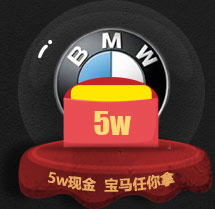
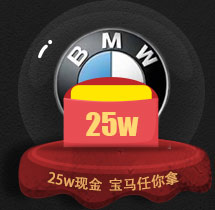
Site updated: 2017-10-06 21:01:34

diff --git a/invite/css/main_mobile.less b/invite/css/main_mobile.less
@@ -395,7 +395,8 @@ background-size: contain;
               text-align: center;
 
               background: url("../img/pick_right_now.jpg") no-repeat;
-              .lessRem(width,309);
+              .lessRem(width,330);
+
               .lessRem(height,126);
               background-size: 100% 100%;
               margin:0 auto;
@@ -408,7 +409,8 @@ background-size: contain;
 
               background-color: #360d0d;
               border: 1px solid #441616;
-              .lessRem(width,316);
+              .lessRem(width,330);
+
               .lessRem(height,67);
               .lessRem(line-height,67);
               margin:0 auto;
@@ -422,16 +424,16 @@ background-size: contain;
               >input{
                 display: inline-block;
                 .lessRem(width,160);
-
                 color:@fontColorDarkGray;
-
+                background-color: #360d0d;
+                border:none;
               }
             }
             .validate-code{
               background-color: #360d0d;
               border: 1px solid #441616;
 
-              .lessRem(width,316);
+              .lessRem(width,330);
               .lessRem(height,67);
               .lessRem(line-height,67);
               margin:0 auto;
@@ -447,13 +449,15 @@ background-size: contain;
                 .lessRem(width,60);
                 color:@fontColorDarkGray;
                 .lessRem(font-size,24);
+                background-color: #360d0d;
+                border:none;
               }
 
               a{
 
                 display: inline-block;
                 background-color:#360d0d;
-                .lessRem(width,126);
+                .lessRem(width,125);
                 border:none;
                 border-left: 1px solid #4a1616;
                 .lessRem(font-size,19);
@@ -522,12 +526,12 @@ background-size: contain;
       }
       .second-content{
         overflow: hidden;
-        .lessRem(padding-left,45);
-        .lessRem(padding-right,25);
+        .lessRem(padding-left,35);
+        .lessRem(padding-right,20);
         .second-content-item{
           ;
           background: url("../img/second_item_bg.jpg") no-repeat;
-          .lessRem(width,300);
+          .lessRem(width,310);
           .lessRem(height,409);
           .lessRem(margin-top,30);
           background-size: cover;
@@ -547,7 +551,7 @@ background-size: contain;
 
           }
           >p{
-            .lessRem(font-size,20);
+            .lessRem(font-size,12);
             .lessRem(height,46);
             .lessRem(line-height,46);
             color: @fontColorLightYellow;
@@ -564,7 +568,7 @@ background-size: contain;
             color:@fontColorGray;
             .lessRem(margin-top,35);
 
-            .lessRem(font-size,20);
+            .lessRem(font-size,14);
             text-align: center;
             ;
           }

diff --git a/invite/css/main_pc.less b/invite/css/main_pc.less
@@ -368,7 +368,7 @@ a {
             .lessRem(margin-left,0)
           }
           .first-content-four{
-            .lessRem(width,240);
+            .lessRem(width,260);
             .lessRem(height,228);
             .lessRem(margin-left,5);
             background: url("../img/first_content_four_bg.jpg") no-repeat;
@@ -389,7 +389,8 @@ a {
               text-align: center;
 
               background: url("../img/pick_right_now.jpg") no-repeat;
-              .lessRem(width,221);
+              .lessRem(width,245);
+
               .lessRem(height,95);
               background-size: 100% 100%;
               margin:0 auto;
@@ -403,7 +404,7 @@ a {
               background-color: #360d0d;
               border: 1px solid #441616;
 
-              .lessRem(width,222);
+              .lessRem(width,245);
               .lessRem(height,48);
               .lessRem(line-height,48);
 
@@ -411,36 +412,48 @@ a {
               .lessRem(margin-top,10);
               span{
                 color: @fontColorDarkYellow;
+                
+
                 .lessRem(font-size,14);
-                margin-left: 5px;
+                .lessRem(width,70);
+                .lessRem(margin-left,5);
+                display: inline-block;
+
               }
               >input{
                 display: inline-block;
                 .lessRem(width,120);
                 .lessRem(font-size,14);
                 color:@fontColorDarkGray;
-
+                background-color: #360d0d;
+                border:none;
               }
             }
             .validate-code{
               background-color: #360d0d;
               border: 1px solid #441616;
 
-              .lessRem(width,222);
+              .lessRem(width,245);
+
               .lessRem(height,48);
               .lessRem(line-height,48);
               margin:0 auto;
               .lessRem(margin-top,5);
               span{
+                
                 color: @fontColorDarkYellow;
+                .lessRem(width,70);
+                display: inline-block;
                 .lessRem(font-size,14);
-                margin-left: 5px;
+                .lessRem(margin-left,5);
               }
               >input{
                 display: inline-block;
                 .lessRem(width,40);
                 .lessRem(font-size,14);
                 color:@fontColorDarkGray;
+                background-color: #360d0d;
+                border:none;
               }
 
               a{
@@ -449,7 +462,8 @@ a {
                 .lessRem(width,90);
                 border:none;
                 border-left: 1px solid #4a1616;
-                border-left: 1px solid #4a1616;
+
+
                 .lessRem(font-size,14);
                 .lessRem(padding-left,10);
                 color:@fontColorGray;

diff --git a/invite/css/main_pc.css b/invite/css/main_pc.css
@@ -291,7 +291,7 @@ a {
   margin-left: 0rem;
 }
 .main .content .first .first-item .new-user-content .first-content-four {
-  width: 10.90909091rem;
+  width: 11.81818182rem;
   height: 10.36363636rem;
   margin-left: 0.22727273rem;
   background: url("../img/first_content_four_bg.jpg") no-repeat;
@@ -311,7 +311,7 @@ a {
 .main .content .first .first-item .new-user-content .first-content-four .pick-right-now {
   text-align: center;
   background: url("../img/pick_right_now.jpg") no-repeat;
-  width: 10.04545455rem;
+  width: 11.13636364rem;
   height: 4.31818182rem;
   background-size: 100% 100%;
   margin: 0 auto;
@@ -323,7 +323,7 @@ a {
 .main .content .first .first-item .new-user-content .first-content-four .phone-num {
   background-color: #360d0d;
   border: 1px solid #441616;
-  width: 10.09090909rem;
+  width: 11.13636364rem;
   height: 2.18181818rem;
   line-height: 2.18181818rem;
   margin: 0 auto;
@@ -332,18 +332,22 @@ a {
 .main .content .first .first-item .new-user-content .first-content-four .phone-num span {
   color: #cb7434;
   font-size: 0.63636364rem;
-  margin-left: 5px;
+  width: 3.18181818rem;
+  margin-left: 0.22727273rem;
+  display: inline-block;
 }
 .main .content .first .first-item .new-user-content .first-content-four .phone-num > input {
   display: inline-block;
   width: 5.45454545rem;
   font-size: 0.63636364rem;
   color: #999;
+  background-color: #360d0d;
+  border: none;
 }
 .main .content .first .first-item .new-user-content .first-content-four .validate-code {
   background-color: #360d0d;
   border: 1px solid #441616;
-  width: 10.09090909rem;
+  width: 11.13636364rem;
   height: 2.18181818rem;
   line-height: 2.18181818rem;
   margin: 0 auto;
@@ -351,14 +355,18 @@ a {
 }
 .main .content .first .first-item .new-user-content .first-content-four .validate-code span {
   color: #cb7434;
+  width: 3.18181818rem;
+  display: inline-block;
   font-size: 0.63636364rem;
-  margin-left: 5px;
+  margin-left: 0.22727273rem;
 }
 .main .content .first .first-item .new-user-content .first-content-four .validate-code > input {
   display: inline-block;
   width: 1.81818182rem;
   font-size: 0.63636364rem;
   color: #999;
+  background-color: #360d0d;
+  border: none;
 }
 .main .content .first .first-item .new-user-content .first-content-four .validate-code a {
   display: inline-block;

diff --git a/invite/css/main_mobile.css b/invite/css/main_mobile.css
@@ -310,7 +310,7 @@ a {
   z-index: 2;
   text-align: center;
   background: url("../img/pick_right_now.jpg") no-repeat;
-  width: 4.12rem;
+  width: 4.4rem;
   height: 1.68rem;
   background-size: 100% 100%;
   margin: 0 auto;
@@ -322,7 +322,7 @@ a {
 .main .content .first .first-item .new-user-content .first-content-four .phone-num {
   background-color: #360d0d;
   border: 1px solid #441616;
-  width: 4.21333333rem;
+  width: 4.4rem;
   height: 0.89333333rem;
   line-height: 0.89333333rem;
   margin: 0 auto;
@@ -337,11 +337,13 @@ a {
   display: inline-block;
   width: 2.13333333rem;
   color: #999;
+  background-color: #360d0d;
+  border: none;
 }
 .main .content .first .first-item .new-user-content .first-content-four .validate-code {
   background-color: #360d0d;
   border: 1px solid #441616;
-  width: 4.21333333rem;
+  width: 4.4rem;
   height: 0.89333333rem;
   line-height: 0.89333333rem;
   margin: 0 auto;
@@ -357,11 +359,13 @@ a {
   width: 0.8rem;
   color: #999;
   font-size: 0.32rem;
+  background-color: #360d0d;
+  border: none;
 }
 .main .content .first .first-item .new-user-content .first-content-four .validate-code a {
   display: inline-block;
   background-color: #360d0d;
-  width: 1.68rem;
+  width: 1.66666667rem;
   border: none;
   border-left: 1px solid #4a1616;
   font-size: 0.25333333rem;
@@ -416,12 +420,12 @@ a {
 }
 .main .content .second .second-content {
   overflow: hidden;
-  padding-left: 0.6rem;
-  padding-right: 0.33333333rem;
+  padding-left: 0.46666667rem;
+  padding-right: 0.26666667rem;
 }
 .main .content .second .second-content .second-content-item {
   background: url("../img/second_item_bg.jpg") no-repeat;
-  width: 4rem;
+  width: 4.13333333rem;
   height: 5.45333333rem;
   margin-top: 0.4rem;
   background-size: cover;
@@ -440,7 +444,7 @@ a {
   background-size: cover;
 }
 .main .content .second .second-content .second-content-item > p {
-  font-size: 0.26666667rem;
+  font-size: 0.16rem;
   height: 0.61333333rem;
   line-height: 0.61333333rem;
   color: #ffc657;
@@ -455,7 +459,7 @@ a {
   display: block;
   color: #949494;
   margin-top: 0.46666667rem;
-  font-size: 0.26666667rem;
+  font-size: 0.18666667rem;
   text-align: center;
 }
 .main .content .second .second-content:first-child {

diff --git a/invite/index.html b/invite/index.html
@@ -3,7 +3,7 @@
 
 <head>
     <meta http-equiv="Content-Type" content="text/html; charset=utf-8"/>
-    <title>invite</title>
+    <title>我是王者</title>
 
     <meta name="Resource-type" content="Document"/>
     <meta name="description" content="超神电竞排位上分英雄训练营荣耀代练王者荣耀攻略高手视频荣耀赛事线下约玩">
@@ -107,11 +107,11 @@
                             立即领取
                         </div>
                         <div class="phone-num">
-                            <span>电话号码:</span>
+                            <span>手机号码:</span>
                             <input type="text" name="phonenum" id="phonenum" maxlength="11">
                         </div>
                         <div class="validate-code">
-                            <span>验证码:</span>
+                            <span>验 证 码 :</span>
                             <input type="text" name="varifyCode" id="varifyCode" maxlength="4">
                             <a id="getCode">
                                 获取验证码
@@ -138,7 +138,7 @@
                 <div class="second-content-item">
                     <p>王者擂台</p>
                     <img src="img/second_item_01.jpg" alt="">
-                    <span class="item-bottom">全网首家公平竞技平台<br/>5万现金·宝马奖励超出想象</span>
+                    <span class="item-bottom">全网首家公平竞技平台<br/>25万现金+宝马奖励超出想象</span>
                 </div>
                 <div class="second-content-item">
                     <p>代打陪玩</p>

diff --git a/invite/js/main.js b/invite/js/main.js
@@ -21,7 +21,7 @@ $(function () {
 				countdown = 60;
 				send = true;
 			} else {
-				$(ele).html(countdown + "s重新发送");
+				$(ele).html(countdown + "s后重发");
 				countdown--;
 			}
 		}
